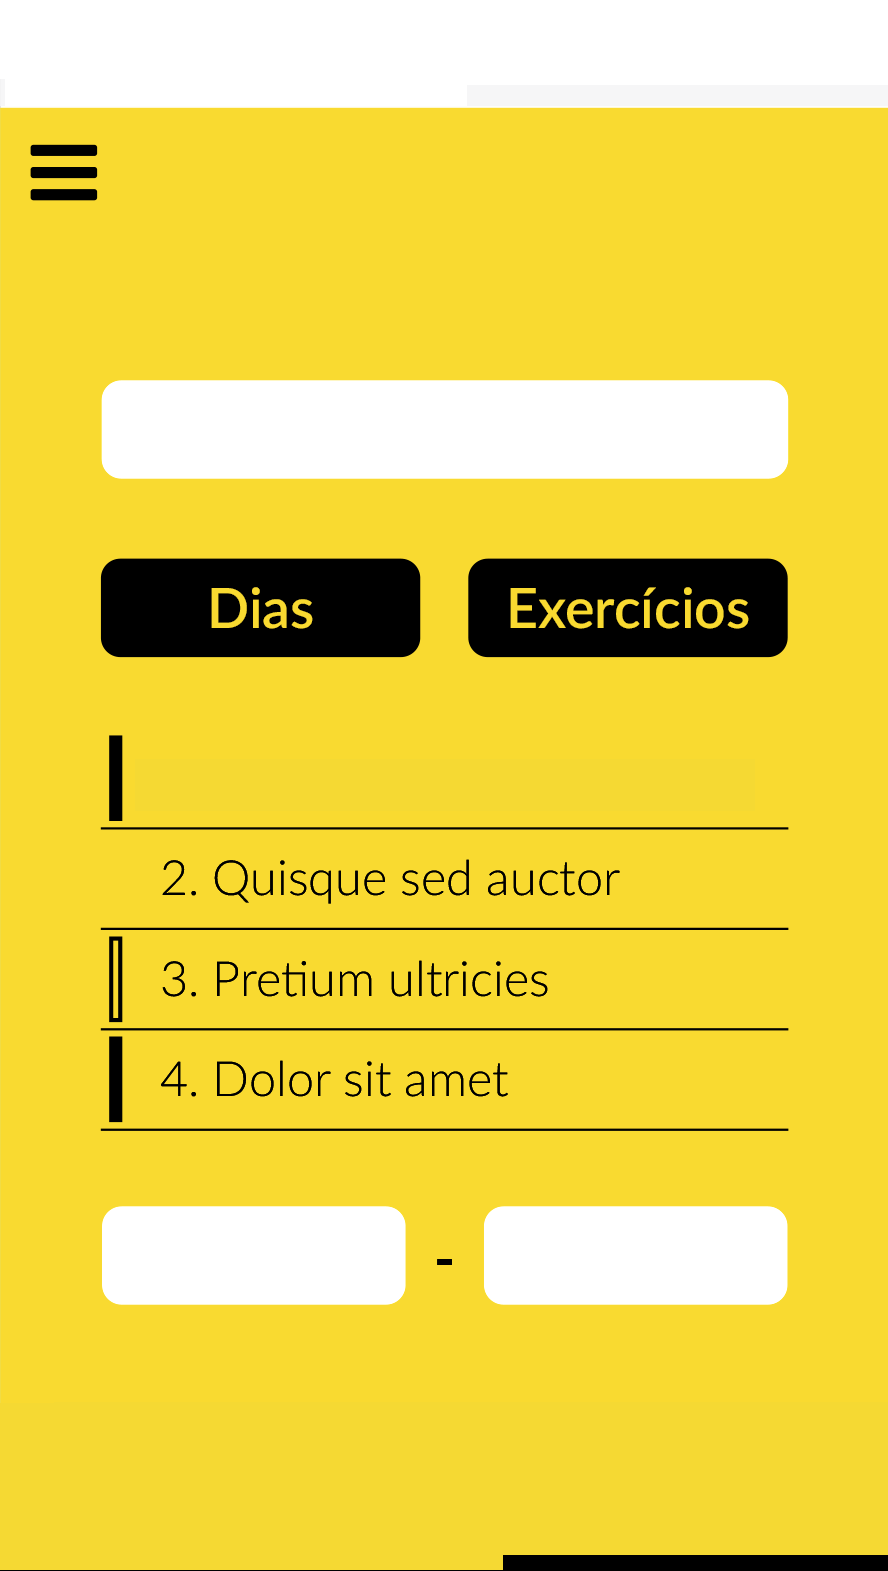
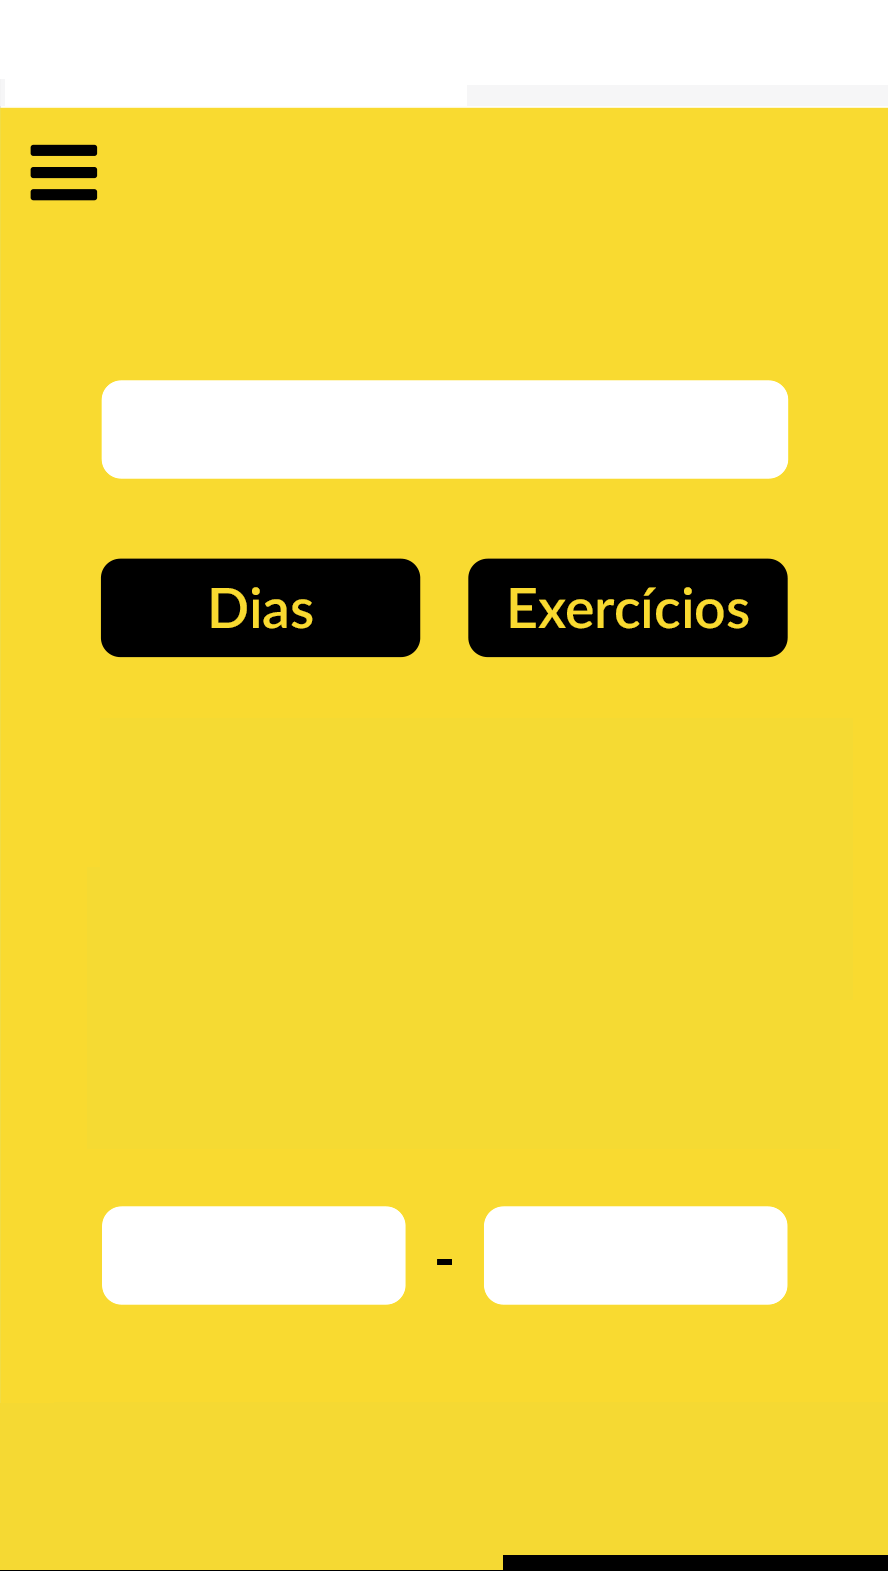
comit

diff --git a/Stamina/Stamina/CriaTreinoVC.m b/Stamina/Stamina/CriaTreinoVC.m
@@ -26,10 +26,14 @@
     [create setIdentification:[NSMutableArray array]];
     [create setSer:[NSMutableArray array]];
     [create setRep:[NSMutableArray array]];
+    _trainoNomeTxt.delegate = self;
     _tableExercicios.rowHeight = 30;
     _tableExercicios.delegate = self;
     _tableExercicios.dataSource = self;
+    _tableExercicios.backgroundColor = [UIColor clearColor];
     _tableExercicios.contentSize = CGSizeMake(_tableExercicios.frame.size.width, [[create ser] count]*31);
+    [self labelVazio].hidden = YES;
+
 }
 -(void)function1{
     CreateTrainTemp *create = [CreateTrainTemp alloc];
@@ -65,6 +69,19 @@
         
         [context save:&error];
     }
+    [[create ser] removeAllObjects];
+        [[create rep] removeAllObjects];
+        [[create identification] removeAllObjects];
+    [create setTrainingName:nil];
+    
+}
+-(void)touchesBegan:(NSSet *)touches withEvent:(UIEvent *)event{
+    [self.trainoNomeTxt resignFirstResponder];
+}
+- (BOOL)textFieldShouldReturn:(UITextField*)aTextField
+{
+    [aTextField resignFirstResponder];
+    return YES;
 }
 - (BOOL)tableView:(UITableView *)tableView canEditRowAtIndexPath:(NSIndexPath *)indexPath {
     // Return YES if you want the specified item to be editable.
@@ -72,6 +89,14 @@
 }
 -(NSInteger)tableView:(UITableView *)tableView numberOfRowsInSection:(NSInteger)section{
     CreateTrainTemp *tem = [CreateTrainTemp alloc];
+    if([[tem ser] count]==0){
+        [self labelVazio].hidden = NO;
+        [self tableExercicios].hidden=YES;
+    }
+    else {
+        [self labelVazio].hidden = YES;
+        [self tableExercicios].hidden=NO;
+    }
     return [[tem ser] count];
 }
 -(void)tableView:(UITableView *)tableView didSelectRowAtIndexPath:(NSIndexPath *)indexPath{
@@ -95,7 +120,7 @@
     NSString *str = [NSString stringWithFormat:@"%@ - %@x%@",[[temp name] objectAtIndex:indexPath.row],[[temp ser] objectAtIndex:indexPath.row],[[temp rep] objectAtIndex:indexPath.row]];
     cell.textLabel.text = str;
     cell.accessoryType = UITableViewCellAccessoryNone;
-    
+    cell.backgroundColor = [UIColor clearColor];
     return cell;
 
 }

diff --git a/Stamina/ExercicioTVC.m b/Stamina/ExercicioTVC.m
@@ -49,6 +49,7 @@
 
 
 }
+
 -(void)handleLongPress:(UILongPressGestureRecognizer *)gestureRecognizer
 {
     CGPoint p = [gestureRecognizer locationInView:self.table];
@@ -168,6 +169,31 @@
     [self showBarWithAnimation:YES];
 }
 
+-(void)viewDidAppear:(BOOL)animated{
+    [super viewDidAppear:animated];
+    NSArray *array =  [super criaBarButton];
 
+    UIButton *btn = [array objectAtIndex:0];
+    
+    
+    [btn addTarget:self action:@selector(function1) forControlEvents:UIControlEventTouchUpInside];
+    btn = [array objectAtIndex:1];
+    //  [btn addTarget:self action:@selector(adicionaTreino) forControlEvents:UIControlEventTouchUpInside];
+    btn = [array objectAtIndex:2];
+    [btn addTarget:self action:@selector(adicionaTreino) forControlEvents:UIControlEventTouchUpInside];
+    [btn setBackgroundColor:[UIColor    blackColor]];
+    UIImageView *image = [[UIImageView alloc] initWithFrame:CGRectMake(0, 0, btn.frame.size.height*0.85, btn.frame.size.height*0.85)];
+    [image  setImage:[UIImage imageNamed:@"icone_ok.png"]];
+    [btn addSubview:image];
+    [image setCenter:CGPointMake(btn.frame.size.width/2, btn.frame.size.height/2)];
+    [super hideBarWithAnimation:1];
+    UILongPressGestureRecognizer *lpgr = [[UILongPressGestureRecognizer alloc]
+                                          initWithTarget:self action:@selector(handleLongPress:)];
+    lpgr.minimumPressDuration = 1.0; //seconds
+    lpgr.delegate = self;
+    [self.table addGestureRecognizer:lpgr];
+    [self showBarWithAnimation:YES];
+
+}
 
 @end

diff --git a/Stamina/Stamina/AppDelegate.m b/Stamina/Stamina/AppDelegate.m
@@ -133,7 +133,7 @@
         NSLog(@"Unresolved error %@, %@", error, [error userInfo]);
         abort();
     }
-    NSString *str = [WebServiceResponse previsaoDoTempoNaLatitude:35 eLongitude:39];
+   // NSString *str = [WebServiceResponse previsaoDoTempoNaLatitude:35 eLongitude:39];
     
     return _persistentStoreCoordinator;
 }

diff --git a/Stamina/Stamina/AddExercise.m b/Stamina/Stamina/AddExercise.m
@@ -17,6 +17,8 @@
 
 -(void)viewWillAppear:(BOOL)animated{
     [super viewWillAppear:animated];
+    self.navigationController.navigationBar.translucent = YES;
+
     CreateTrainTemp *create = [CreateTrainTemp alloc];
     [super viewDidAppear:animated];
     NSArray *array =  [super criaBarButton];

diff --git a/Stamina/Stamina/CriaTreinoVC.h b/Stamina/Stamina/CriaTreinoVC.h
@@ -21,5 +21,6 @@
 @property NSDate *inicio;
 @property int sender;
 @property UIAlertView *alert;
+@property (weak, nonatomic) IBOutlet UILabel *labelVazio;
 @property (weak, nonatomic) IBOutlet UIButton *btn;
 @end
